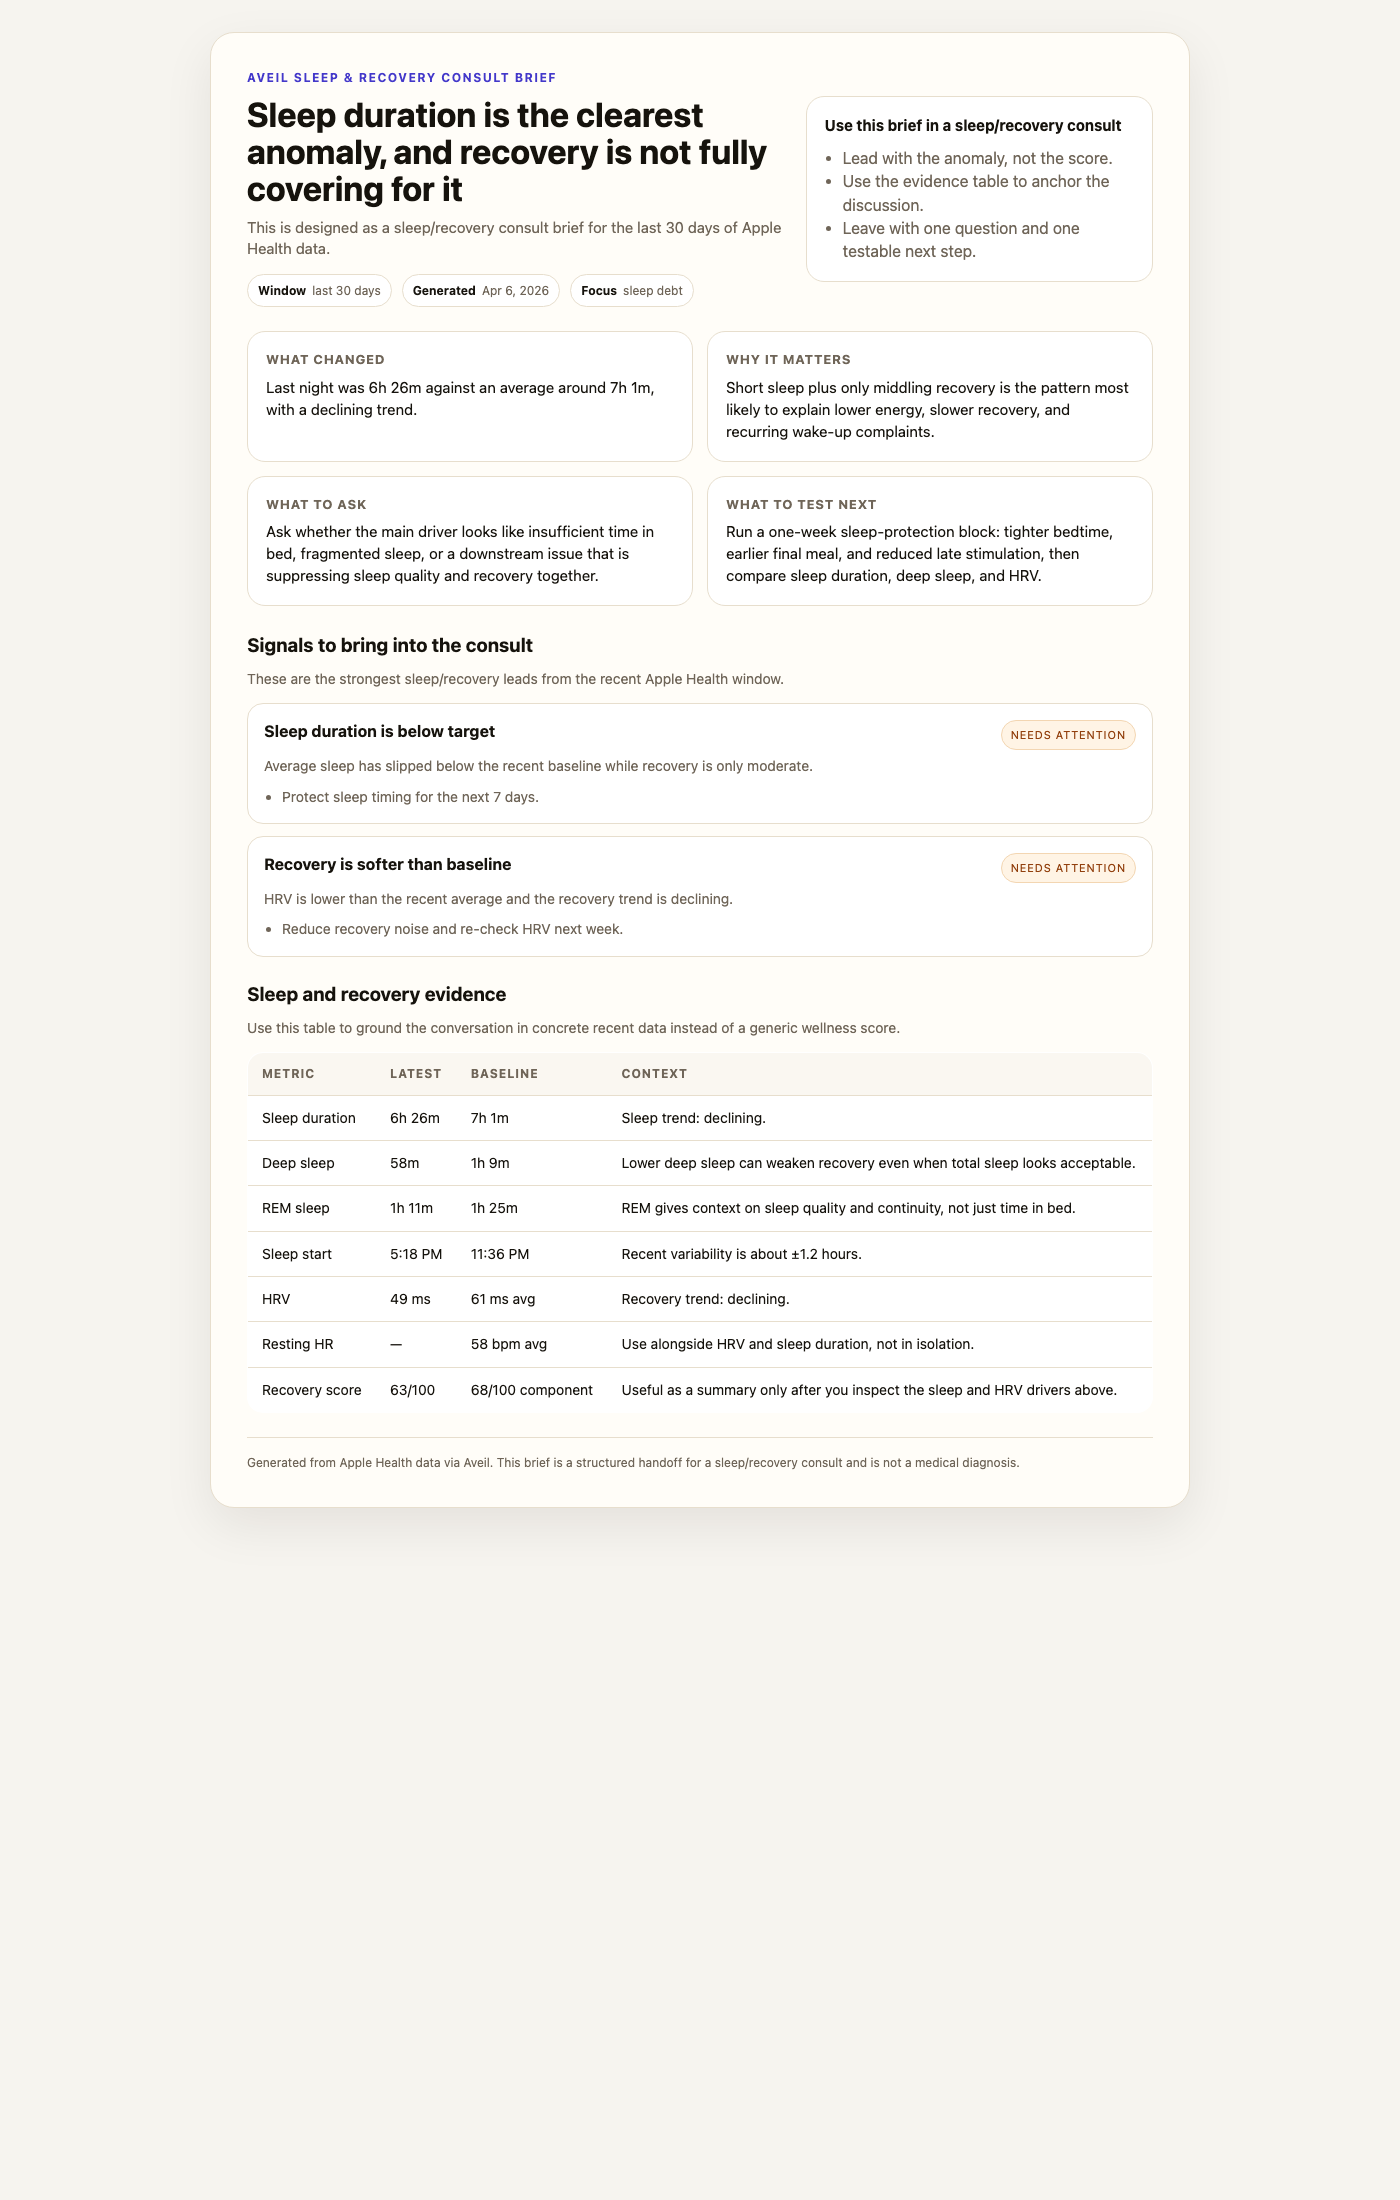
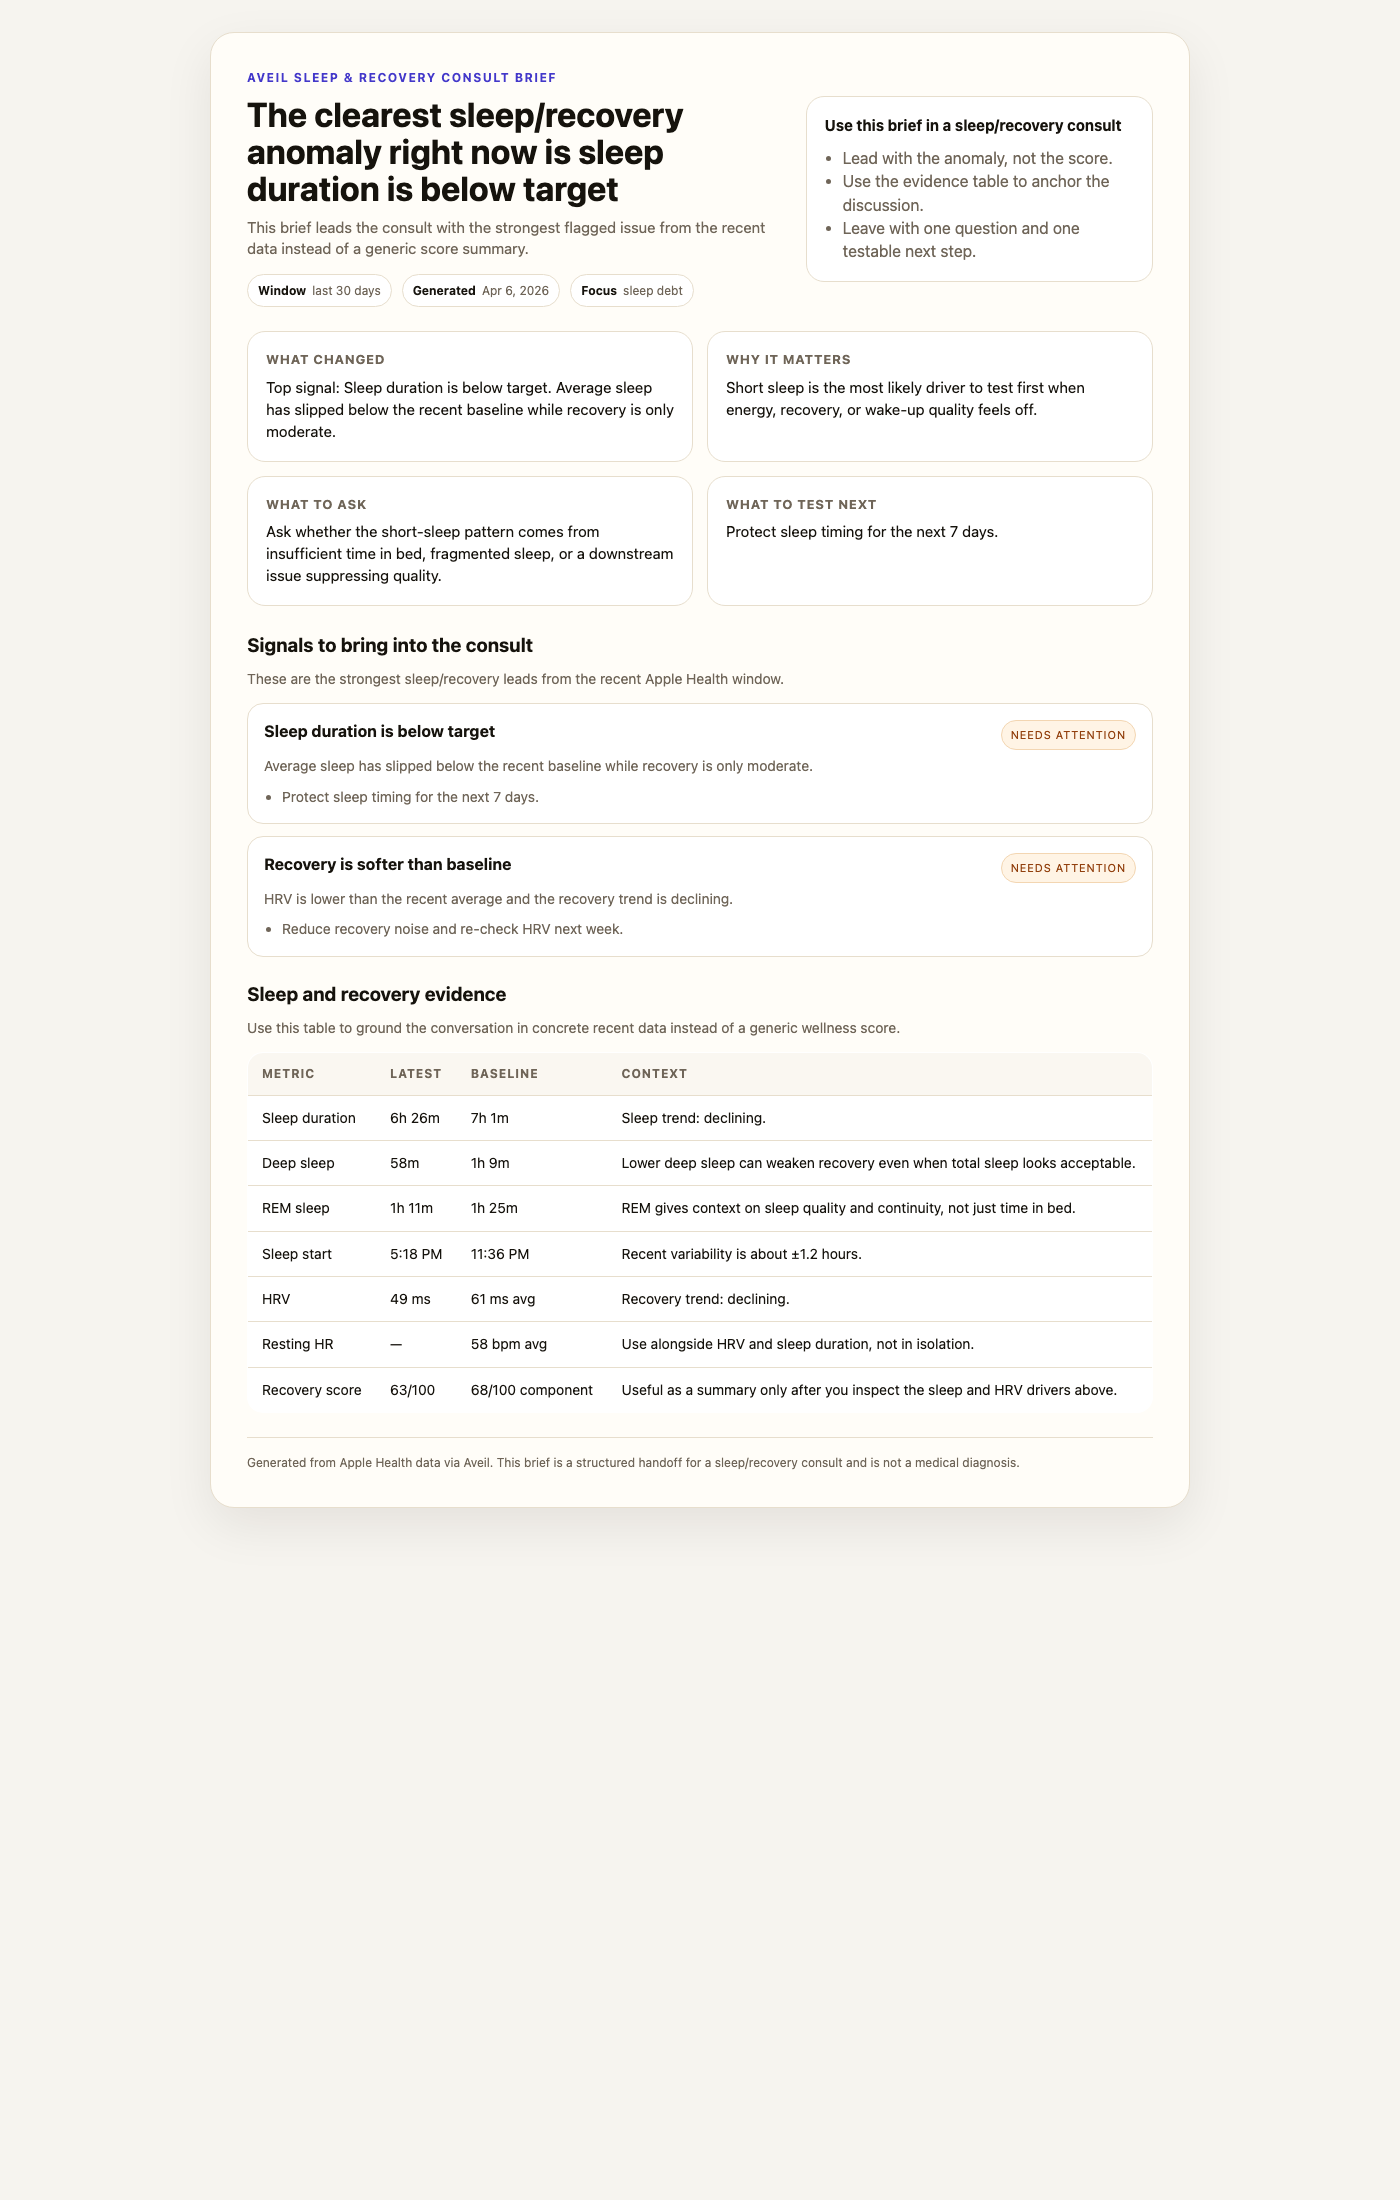
Tie brief narrative to top signal

diff --git a/src/brief.js b/src/brief.js
@@ -349,65 +349,59 @@ function renderMetricRow(row) {
 }
 
 function buildConsultFocus(report, days) {
-  const sleep = report.sleep || {};
-  const recovery = report.recovery || {};
   const relevantSignals = buildRelevantSignals(report);
   const primary = relevantSignals[0];
-  const sleepAvg = sleep.averages?.durationMinutes;
-  const lastNightMinutes = sleep.lastNight?.totalMinutes;
-  const averageHRV = recovery.averageHRV;
-  const latestHRV = recovery.latestHRV;
-  const sleepTrend = describeTrend(sleep.trend);
-  const recoveryTrend = describeTrend(recovery.trend);
   const normalizedType = normalizeSignalType(primary?.type);
+  const isPositive = primary?.level === "positive";
+  const isWarning = primary?.level === "warning";
+  const signalTitle = primary?.title || "No acute sleep/recovery anomaly was flagged";
+  const signalDetail = primary?.detail || "The current strongest pattern is worth validating against symptoms and routine.";
+  const signalMove = primary?.move || "Repeat the brief after one week to confirm whether the pattern holds.";
 
-  if (normalizedType === "sleep_consistency") {
-    return {
-      focusLabel: "bedtime drift",
-      headline: "Sleep timing drift is the clearest recovery lead right now",
-      subheadline: `This brief narrows the consult to schedule consistency and its recovery effects across the last ${days} days.`,
-      whatChanged: `Bedtime consistency is off${sleep.averages?.bedtimeVariability != null ? ` at about ±${sleep.averages.bedtimeVariability.toFixed(1)} hours` : ""}${sleepTrend ? `, with a ${sleepTrend} sleep trend` : ""}.`,
-      whyItMatters: "When sleep timing drifts, total sleep, deep sleep, and next-day recovery can all become noisier even if some nights still look acceptable.",
-      whatToAsk: "Ask whether the main problem is circadian drift, inconsistent time in bed, or fragmentation after sleep onset.",
-      whatToTestNext: "For one week, lock bedtime and wake time into a tighter 30-minute band and track whether total sleep, wake-ups, and HRV stabilize.",
-    };
-  }
-
-  if (normalizedType === "recovery_low") {
-    return {
-      focusLabel: "recovery dip",
-      headline: "Recovery is softer than baseline and sleep is the first place to investigate",
-      subheadline: `This brief is structured for a sleep/recovery consult, not a generic wellness review.`,
-      whatChanged: `${latestHRV != null ? `Latest HRV is ${latestHRV} ms` : "Recovery markers are soft"}${averageHRV != null ? ` versus a recent average around ${averageHRV} ms` : ""}${recoveryTrend ? `, with a ${recoveryTrend} recovery trend` : ""}.`,
-      whyItMatters: "When recovery stays soft, training tolerance, sleep quality, and day-to-day readiness can all become less predictable.",
-      whatToAsk: "Ask whether the signal looks more like under-recovery, illness/stress load, or sleep quality degradation that is pulling recovery down.",
-      whatToTestNext: "Reduce recovery noise for 5-7 days: keep training submaximal, hold sleep timing steady, and watch whether HRV and perceived recovery rebound.",
-    };
-  }
-
-  if (normalizedType === "all_clear") {
+  if (!primary || normalizedType === "all_clear") {
     return {
       focusLabel: "baseline review",
-      headline: "No single red flag dominates, so use the consult to pressure-test the baseline",
-      subheadline: `The brief still narrows the conversation to sleep and recovery instead of a full lifestyle review.`,
-      whatChanged: `No major sleep/recovery anomaly was flagged in the last ${days} days, but the current baseline is now the thing to validate.`,
-      whyItMatters: "A stable baseline is useful only if it matches symptoms, recovery, and actual performance, not just the dashboard average.",
-      whatToAsk: "Ask which metric matters most to track going forward: total sleep, wake-ups, HRV, or bedtime consistency.",
-      whatToTestNext: "Pick one measurable lever, keep it stable for a week, and use the brief again to compare before versus after.",
+      headline: "No acute anomaly, so use the consult to validate the strongest current pattern",
+      subheadline: `This brief narrows the conversation to sleep and recovery over the last ${days} days instead of forcing a generic wellness narrative.`,
+      whatChanged: `Strongest pattern: ${signalTitle}. ${signalDetail}`,
+      whyItMatters: "Trust drops when the narrative invents a problem that the data does not show. This framing stays anchored to what the report actually flagged.",
+      whatToAsk: "Ask whether the strongest current pattern matches real symptoms, recovery, and day-to-day functioning, or whether something important is still missing from the data.",
+      whatToTestNext: signalMove,
     };
   }
 
-  const avgSleepLabel = sleepAvg != null ? formatDuration(sleepAvg) : "recent baseline";
-  const lastNightLabel = lastNightMinutes != null ? formatDuration(lastNightMinutes) : null;
+  if (isPositive) {
+    return {
+      focusLabel: focusLabelForType(normalizedType, true),
+      headline: `No acute anomaly. The strongest current pattern is ${signalTitle.toLowerCase()}`,
+      subheadline: `The goal of this consult is to explain what appears to be working and pressure-test whether that baseline is real.`,
+      whatChanged: `Top signal: ${signalTitle}. ${signalDetail}`,
+      whyItMatters: whyItMattersForSignal(normalizedType, true),
+      whatToAsk: askForSignal(normalizedType, true),
+      whatToTestNext: signalMove,
+    };
+  }
+
+  if (isWarning) {
+    return {
+      focusLabel: focusLabelForType(normalizedType, false),
+      headline: `The clearest sleep/recovery anomaly right now is ${signalTitle.toLowerCase()}`,
+      subheadline: `This brief leads the consult with the strongest flagged issue from the recent data instead of a generic score summary.`,
+      whatChanged: `Top signal: ${signalTitle}. ${signalDetail}`,
+      whyItMatters: whyItMattersForSignal(normalizedType, false),
+      whatToAsk: askForSignal(normalizedType, false),
+      whatToTestNext: signalMove,
+    };
+  }
 
   return {
-    focusLabel: "sleep debt",
-    headline: "Sleep duration is the clearest anomaly, and recovery is not fully covering for it",
-    subheadline: `This is designed as a sleep/recovery consult brief for the last ${days} days of Apple Health data.`,
-    whatChanged: `${lastNightLabel ? `Last night was ${lastNightLabel}` : "Recent sleep has run short"}${sleepAvg != null ? ` against an average around ${avgSleepLabel}` : ""}${sleepTrend ? `, with a ${sleepTrend} trend` : ""}.`,
-    whyItMatters: "Short sleep plus only middling recovery is the pattern most likely to explain lower energy, slower recovery, and recurring wake-up complaints.",
-    whatToAsk: "Ask whether the main driver looks like insufficient time in bed, fragmented sleep, or a downstream issue that is suppressing sleep quality and recovery together.",
-    whatToTestNext: "Run a one-week sleep-protection block: tighter bedtime, earlier final meal, and reduced late stimulation, then compare sleep duration, deep sleep, and HRV.",
+    focusLabel: focusLabelForType(normalizedType, false),
+    headline: `The strongest current pattern is ${signalTitle.toLowerCase()}`,
+    subheadline: `This consult brief stays tied to the top signal from the actual report instead of trying to force a stronger claim than the data supports.`,
+    whatChanged: `Top signal: ${signalTitle}. ${signalDetail}`,
+    whyItMatters: whyItMattersForSignal(normalizedType, false),
+    whatToAsk: askForSignal(normalizedType, false),
+    whatToTestNext: signalMove,
   };
 }
 
@@ -520,10 +514,11 @@ function normalizeSignalType(type) {
     case "recovery_low":
     case "recovery_readiness":
       return "recovery_low";
+    case "sleep_quality":
+      return "sleep_quality";
     case "all_clear":
       return "all_clear";
     case "deep_sleep_deficit":
-    case "sleep_quality":
     case "sleep_debt":
     default:
       return "sleep_debt";
@@ -568,6 +563,70 @@ function humanizeLevel(level) {
       return "supportive";
     default:
       return "context";
+  }
+}
+
+function focusLabelForType(type, positive) {
+  switch (type) {
+    case "sleep_consistency":
+      return positive ? "stable schedule" : "bedtime drift";
+    case "recovery_low":
+      return positive ? "recovery support" : "recovery dip";
+    case "sleep_quality":
+      return positive ? "strong sleep quality" : "sleep quality drop";
+    case "all_clear":
+      return "baseline review";
+    case "sleep_debt":
+    default:
+      return positive ? "sleep baseline" : "sleep debt";
+  }
+}
+
+function whyItMattersForSignal(type, positive) {
+  switch (type) {
+    case "sleep_consistency":
+      return positive
+        ? "Stable sleep timing is often the hidden input holding recovery together, so it is worth identifying what is preserving it."
+        : "Sleep timing drift can make total sleep and recovery noisy even when a few nights still look decent on paper.";
+    case "recovery_low":
+      return positive
+        ? "Supportive recovery means the current sleep/recovery setup may actually be working, which is useful to preserve before changing variables."
+        : "Soft recovery can reduce training tolerance and make symptoms feel worse even before average sleep duration collapses.";
+    case "sleep_quality":
+      return positive
+        ? "Good sleep quality with solid stage balance is a real asset, but only if it matches symptoms and daytime functioning."
+        : "Poor sleep quality can hide inside acceptable total sleep numbers and still drag recovery down.";
+    case "all_clear":
+      return "The absence of a sharp anomaly is still informative, but only if the brief stays honest about that instead of manufacturing urgency.";
+    case "sleep_debt":
+    default:
+      return positive
+        ? "A stable sleep baseline matters because it gives you something concrete to preserve and compare against if symptoms change later."
+        : "Short sleep is the most likely driver to test first when energy, recovery, or wake-up quality feels off.";
+  }
+}
+
+function askForSignal(type, positive) {
+  switch (type) {
+    case "sleep_consistency":
+      return positive
+        ? "Ask which part of the routine is most responsible for the stable schedule, and what would be the earliest sign that it is slipping."
+        : "Ask whether the main issue is circadian drift, inconsistent time in bed, or fragmentation after sleep onset.";
+    case "recovery_low":
+      return positive
+        ? "Ask whether the recovery strength matches how training and mornings actually feel, or if the data is missing a meaningful stressor."
+        : "Ask whether the recovery dip looks more like under-recovery, illness/stress load, or sleep quality deterioration.";
+    case "sleep_quality":
+      return positive
+        ? "Ask which variable is most worth preserving because it seems to support the strong sleep pattern, rather than changing several things at once."
+        : "Ask whether the quality problem is more about awakenings, breathing, bedtime timing, or sleep opportunity.";
+    case "all_clear":
+      return "Ask which single metric would be most useful to monitor next so the next brief can detect change earlier.";
+    case "sleep_debt":
+    default:
+      return positive
+        ? "Ask whether the stable baseline is enough for current goals, or whether symptoms suggest a hidden problem despite acceptable averages."
+        : "Ask whether the short-sleep pattern comes from insufficient time in bed, fragmented sleep, or a downstream issue suppressing quality.";
   }
 }
 

diff --git a/examples/output/appointment-brief.html b/examples/output/appointment-brief.html
@@ -237,8 +237,8 @@
 
     <div class="hero">
       <div>
-        <h1>Sleep duration is the clearest anomaly, and recovery is not fully covering for it</h1>
-        <p>This is designed as a sleep/recovery consult brief for the last 30 days of Apple Health data.</p>
+        <h1>The clearest sleep/recovery anomaly right now is sleep duration is below target</h1>
+        <p>This brief leads the consult with the strongest flagged issue from the recent data instead of a generic score summary.</p>
         <div class="meta-row">
           <span class="chip"><strong>Window</strong> last 30 days</span>
           <span class="chip"><strong>Generated</strong> Apr 6, 2026</span>
@@ -256,10 +256,10 @@
     </div>
 
     <div class="focus-grid">
-      <div class="focus-card"><h3>What changed</h3><p>Last night was 6h 26m against an average around 7h 1m, with a declining trend.</p></div>
-      <div class="focus-card"><h3>Why it matters</h3><p>Short sleep plus only middling recovery is the pattern most likely to explain lower energy, slower recovery, and recurring wake-up complaints.</p></div>
-      <div class="focus-card"><h3>What to ask</h3><p>Ask whether the main driver looks like insufficient time in bed, fragmented sleep, or a downstream issue that is suppressing sleep quality and recovery together.</p></div>
-      <div class="focus-card"><h3>What to test next</h3><p>Run a one-week sleep-protection block: tighter bedtime, earlier final meal, and reduced late stimulation, then compare sleep duration, deep sleep, and HRV.</p></div>
+      <div class="focus-card"><h3>What changed</h3><p>Top signal: Sleep duration is below target. Average sleep has slipped below the recent baseline while recovery is only moderate.</p></div>
+      <div class="focus-card"><h3>Why it matters</h3><p>Short sleep is the most likely driver to test first when energy, recovery, or wake-up quality feels off.</p></div>
+      <div class="focus-card"><h3>What to ask</h3><p>Ask whether the short-sleep pattern comes from insufficient time in bed, fragmented sleep, or a downstream issue suppressing quality.</p></div>
+      <div class="focus-card"><h3>What to test next</h3><p>Protect sleep timing for the next 7 days.</p></div>
     </div>
 
     <div class="section">

diff --git a/src/brief.test.js b/src/brief.test.js
@@ -65,7 +65,62 @@ test("generateAppointmentBriefHTML renders anomaly-first sleep/recovery consult 
   assert.match(html, /Why it matters/);
   assert.match(html, /What to ask/);
   assert.match(html, /What to test next/);
-  assert.match(html, /Sleep duration is the clearest anomaly/);
+  assert.match(html, /The clearest sleep\/recovery anomaly right now is sleep duration is below target/i);
+  assert.match(html, /Top signal: Sleep duration is below target\./);
   assert.doesNotMatch(html, /doctor, coach, or self-review/i);
   assert.doesNotMatch(html, /Overall score/i);
+});
+
+test("generateAppointmentBriefHTML uses truthful fallback when the top signal is positive", () => {
+  const report = {
+    overall: {
+      score: 84,
+      components: [
+        { name: "recovery", score: 82 },
+      ],
+    },
+    sleep: {
+      available: true,
+      trend: "stable",
+      lastNight: {
+        totalMinutes: 430,
+        deepMinutes: 87,
+        remMinutes: 111,
+        sleepStart: "2026-04-05T23:18:00.000Z",
+      },
+      averages: {
+        durationMinutes: 429,
+        deepMinutes: 86,
+        remMinutes: 109,
+        bedtimeHour: 23.3,
+        bedtimeVariability: 0.4,
+      },
+    },
+    recovery: {
+      available: true,
+      trend: "improving",
+      latestHRV: 120,
+      averageHRV: 111,
+      averageRHR: 54,
+      recoveryScore: 86,
+    },
+    signals: [
+      {
+        type: "sleep_quality",
+        level: "positive",
+        title: "Sleep: 7.2h (good)",
+        detail: "Deep 87m · REM 111m · Core 231m",
+        moves: ["Sleep looks solid, so preserve the routine before changing variables."],
+      },
+    ],
+  };
+
+  const { html } = generateAppointmentBriefHTML(report, {
+    generatedAt: "2026-04-06T12:00:00.000Z",
+    days: 30,
+  });
+
+  assert.match(html, /No acute anomaly\./);
+  assert.match(html, /Top signal: Sleep: 7\.2h \(good\)\./);
+  assert.doesNotMatch(html, /The clearest sleep\/recovery anomaly/i);
 });
